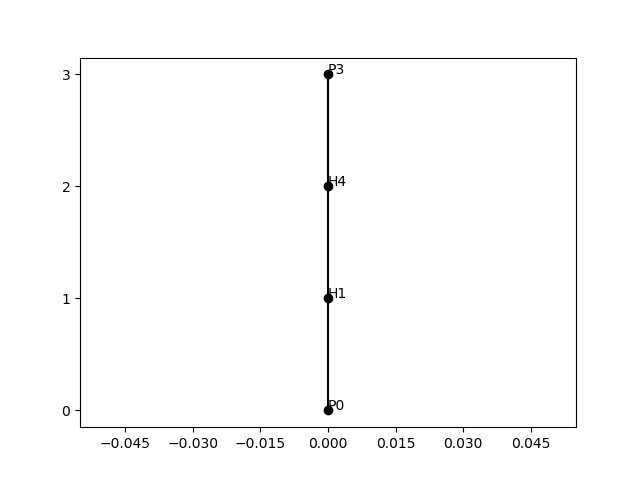
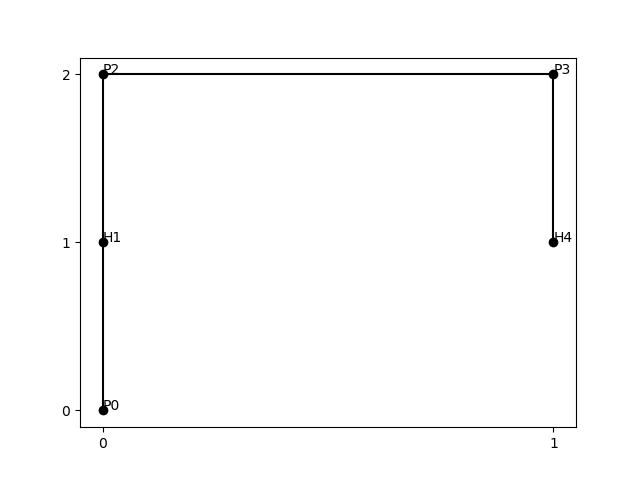
priority constraints added: depth-first

diff --git a/code/algorithms/depth_first.py b/code/algorithms/depth_first.py
@@ -1,29 +1,18 @@
-'''
-Maak lege stack
-Voeg eerste staat toe op stack
-Herhaal tot stack leeg is:
-    Paak bovenste staat op de stack
-    Kies eerstvolgende node
-    Als we een node hebben:
-        Creer nieuwe staten voor elk mogelijke keuze voor node
-    Anders:
-        klaar?
-'''
 import copy
-from .random import Random
+# from .random import Random
 from code.classes.protein import Protein
 from code.classes.aminoacid import AminoAcid
+from code.algorithms.random import Random
+import random
 
-class DepthFirst:
+class DepthFirst():
     """
     A Depth First algorithm that builds a stack of proteins with a unique folding for each instance.
     """
     def __init__(self, protein):
         self.protein = copy.deepcopy(protein)
-        # self.states = [copy.deepcopy(self.protein)]
         self.states = []
-
-        # at the moment best_solution and best_stability are still single value
+        self.solutions = []
         self.best_solutions = []
         self.best_stability = 0
 
@@ -39,7 +28,6 @@ class DepthFirst:
         '''
         Creates all possible child-states and adds them to the list of states.
         '''
-        # values are the possible foldings that we can assign to the amino acid
         # TODO
         # fold_list = Random.get_fold_list()
         # failsave for previous amino acid, surroundings acids
@@ -63,12 +51,17 @@ class DepthFirst:
             child.aminoacids[child.depth_index].folding = value
             
             x, y = self.get_coordinates(value, child)
-            # Check if new folding does not intersect with rest of protein
-            child.depth_index += 1
-            child.add_position(child.aminoacids[child.depth_index], x, y)
+            neighbours = child.get_surrounding_coordinates(x, y)
 
-            # add the child to the stack
-            self.states.append(child)
+            if (x, y) in child.positions.keys():
+                del child
+            else:
+                # Check if new folding does not intersect with rest of protein
+                child.depth_index += 1
+                child.add_position(child.aminoacids[child.depth_index], x, y)
+            
+                # Add the child to the stack
+                self.states.append(child)
         
 
     def check_solution(self, new_protein):
@@ -77,6 +70,9 @@ class DepthFirst:
         '''
         new_protein.set_stability()
         new_stability = new_protein.score
+        
+        # Add solution to the list
+        self.solutions.append([new_protein.score, new_protein.positions])
 
         if new_stability == self.best_stability:
 
@@ -93,44 +89,6 @@ class DepthFirst:
             # !!! have to make sure to save score and coordinates !!!
             self.best_solutions.append([new_protein.score, new_protein.positions])
             print(f"new_protein.positions")
-
-
-    # def get_nofold_amino(self, new_protein):
-    #     '''
-    #     Returns the first amino acid with no folding.
-    #     '''
-    #     # where do I get the protein instance from??
-    #     for amino in new_protein:
-    #         if amino.folding is None:
-    #             return amino
-        
-    #     return None
-
-    
-    def run(self):
-        '''
-        Runs the algorithm untill all possible states are visited.
-        '''      
-        # Initiate coordinates of the first amino acid 
-        self.protein.add_position(self.protein.aminoacids[0], 0, 0)
-        self.states.append(self.protein)
-
-        # while the stack is not empty
-        while self.states:
-            # we got a protein out of the states: the parent
-            new_protein = self.get_next_state()
-            
-            # when there are no more foldings to do, remember what the stability score is
-            if new_protein.depth_index+1 == len(self.protein.aminoacids):
-                self.check_solution(new_protein)
-            else:
-                self.build_children(new_protein)
-        
-        print(f"New best solutions: {self.best_solutions}")
-        temp_protein = self.best_solutions[1]
-        print(f"TEMP_PROTEIN: {temp_protein}")
-        self.protein.positions = temp_protein[1]
-        self.protein.score = temp_protein[0]
 
 
     def get_coordinates(self, folding, child):
@@ -153,14 +111,28 @@ class DepthFirst:
                 yb = prev_y + int(folding/2)
             
             return [xb, yb]
+            
 
+    def run(self):
+        '''
+        Runs the algorithm untill all possible states are visited.
+        '''      
+        # Initiate coordinates of the first amino acid 
+        self.protein.add_position(self.protein.aminoacids[0], 0, 0)
+        self.states.append(self.protein)
 
-    # def create_coordinates(self, protein):
-    #     aminos = protein.aminoacids
-
-    #     for amino in aminos:
-    #         if amino.folding == None: 
-    #             break
-    #         # previous coordinates 
-    #         # if -1 or 1 -> new_coordinates =  x + folding 
-    #         # if -2 or 2 -> new_coordinates = y + folding
+        # while the stack is not empty
+        while self.states:
+            # we got a protein out of the states: the parent
+            new_protein = self.get_next_state()
+            
+            # when there are no more foldings to do, remember what the stability score is
+            if new_protein.depth_index+1 == len(self.protein.aminoacids):
+                self.check_solution(new_protein)
+            else:
+                self.build_children(new_protein)
+        
+        # Fill original protein class with a best solution to visualize this data
+        final_solution = random.choice(self.best_solutions)
+        self.protein.positions = final_solution[1]
+        self.protein.score = final_solution[0]

diff --git a/test.py b/test.py
@@ -40,8 +40,13 @@ from code.algorithms.hill_climber import HillClimber
 source = 'data/testprotein.csv'
 protein_id = '4'
 protein = Protein(source, protein_id)
+random = Random()
 depth = DepthFirst(protein)
 depth.run()
 best = depth.best_solutions[0]
+hist(depth)
 writecsv(protein, best)
+
+random.solutions = depth.solutions
+
 visualize(best)
